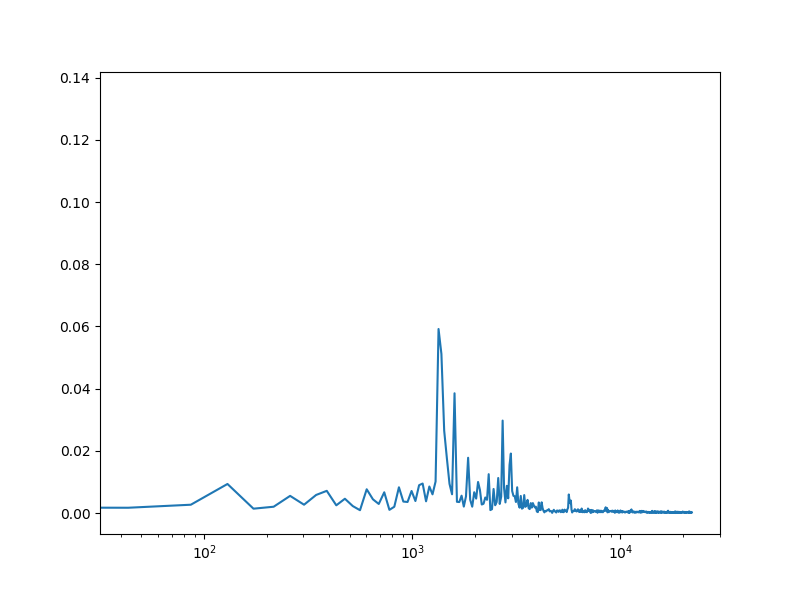
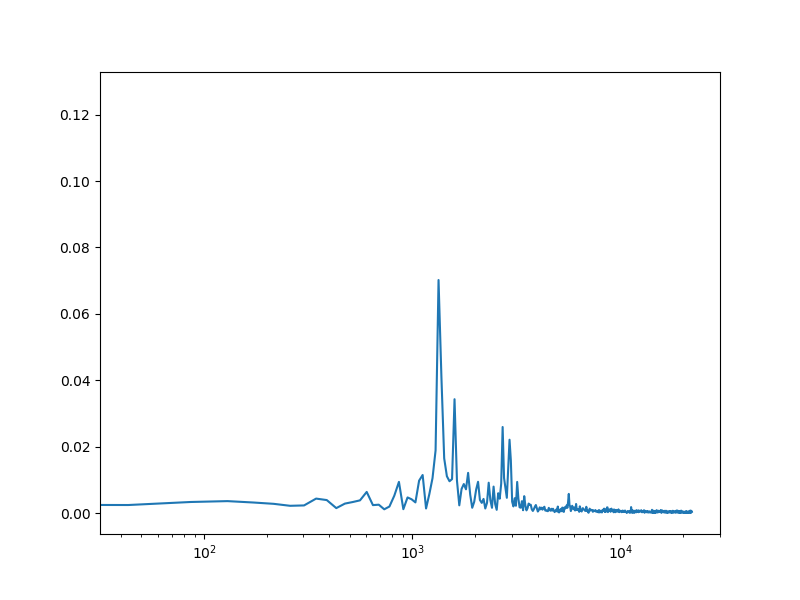
updated picture 2

diff --git a/AudioInputTest.py b/AudioInputTest.py
@@ -20,5 +20,6 @@ while(x<1):
 	print(processed)
 xData = np.linspace(0, 1/(2*(1/sampling)), samples/2)
 plt.figure(num=1, figsize=(8,6))
-plt.semilogx(xData, 2/samples * np.abs(processed[:samples//2]))
+plt.plot(xData, 2/samples * np.abs(processed[:samples//2]))
+plt.xscale('log')
 plt.savefig('spectrogram.png', format='png')
